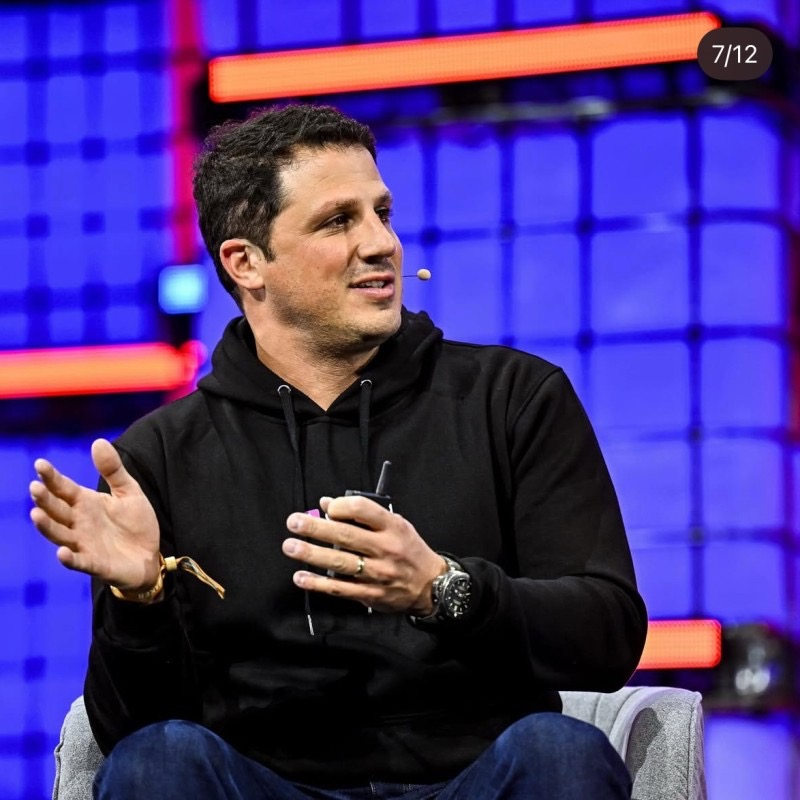
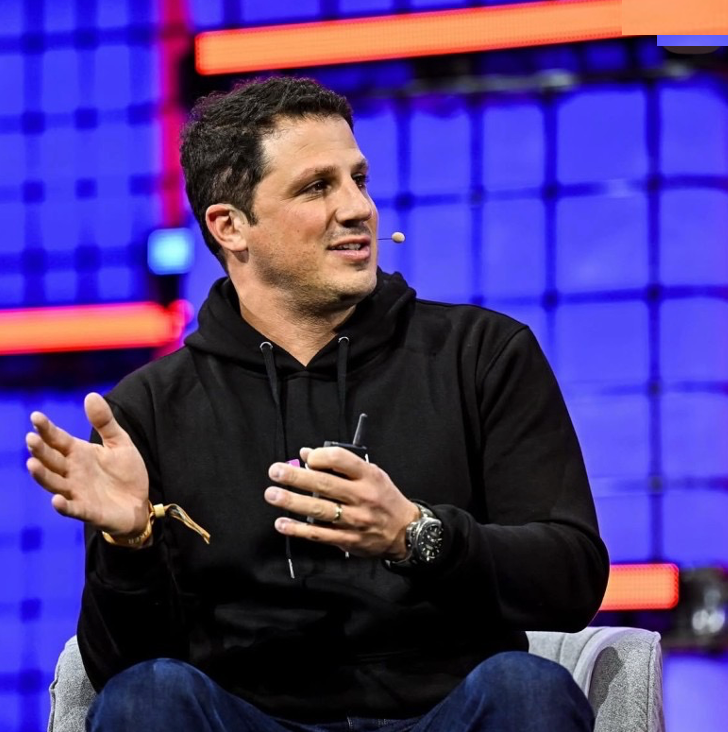
added online panels

diff --git a/client/src/components/Home.js b/client/src/components/Home.js
@@ -500,6 +500,55 @@ const Home = () => {
                 </div>
             </section>
 
+            {/* Panels Section */}
+            <section className="py-16 px-6 border-t border-gray-200">
+                <div className="max-w-7xl mx-auto">
+                    <div className="flex justify-between items-center mb-12">
+                        <div className="flex items-center">
+                            <div
+                                className="w-16 h-16 border border-gray-400 rounded-full flex items-center justify-center mr-4">
+                                <div
+                                    className="w-12 h-12 bg-gradient-to-br from-purple-500 to-indigo-500 rounded-full flex items-center justify-center">
+                                    <span className="text-xl">🎯</span>
+                                </div>
+                            </div>
+                            <h2 className="text-3xl font-black">Online Panels</h2>
+                        </div>
+                     
+                    </div>
+
+                    <div className="grid md:grid-cols-2 gap-8">
+                        {panelSpeakers.slice(0, 4).map((speaker, index) => (
+                            <div key={speaker.id} className="mb-8 group">
+                                <div className="flex mb-4">
+                                    <div className="w-32 mr-6 flex-shrink-0">
+                                        <div className="w-full h-32 bg-gradient-to-br from-purple-300 via-indigo-200 to-blue-100 flex flex-col items-center justify-center relative overflow-hidden rounded-md">
+                                            {/* Background pattern */}
+                                            <div className="absolute inset-0 opacity-20">
+                                                <div className="absolute top-2 left-2 w-3 h-3 bg-white rounded-full"></div>
+                                                <div className="absolute top-6 right-4 w-2 h-2 bg-white rounded-full"></div>
+                                                <div className="absolute bottom-4 left-6 w-1.5 h-1.5 bg-white rounded-full"></div>
+                                                <div className="absolute bottom-2 right-2 w-2.5 h-2.5 bg-white rounded-full"></div>
+                                            </div>
+
+                                            {/* Main icon */}
+                                            <div className="text-3xl font-bold text-white drop-shadow-lg transform group-hover:scale-110 transition-transform duration-300">
+                                                🎤
+                                            </div>
+                                        </div>
+                                    </div>
+                                    <div className="w-140 bg-white p-2">
+                                        <h3 className="text-lg font-black mb-2 text-gray-800 leading-tight">{speaker.name}</h3>
+                                        <p className="text-purple-600 text-sm font-bold mb-2">{speaker.affiliation}</p>
+                                        <p className="text-gray-600 text-xs-2 leading-relaxed">{speaker.event}</p>
+                                    </div>
+                                </div>
+                            </div>
+                        ))}
+                    </div>
+                </div>
+            </section>
+
             {/* Summit Feature Section */}
             <section className="py-16 px-6 border-t border-gray-200">
                 <div className="max-w-7xl mx-auto">
